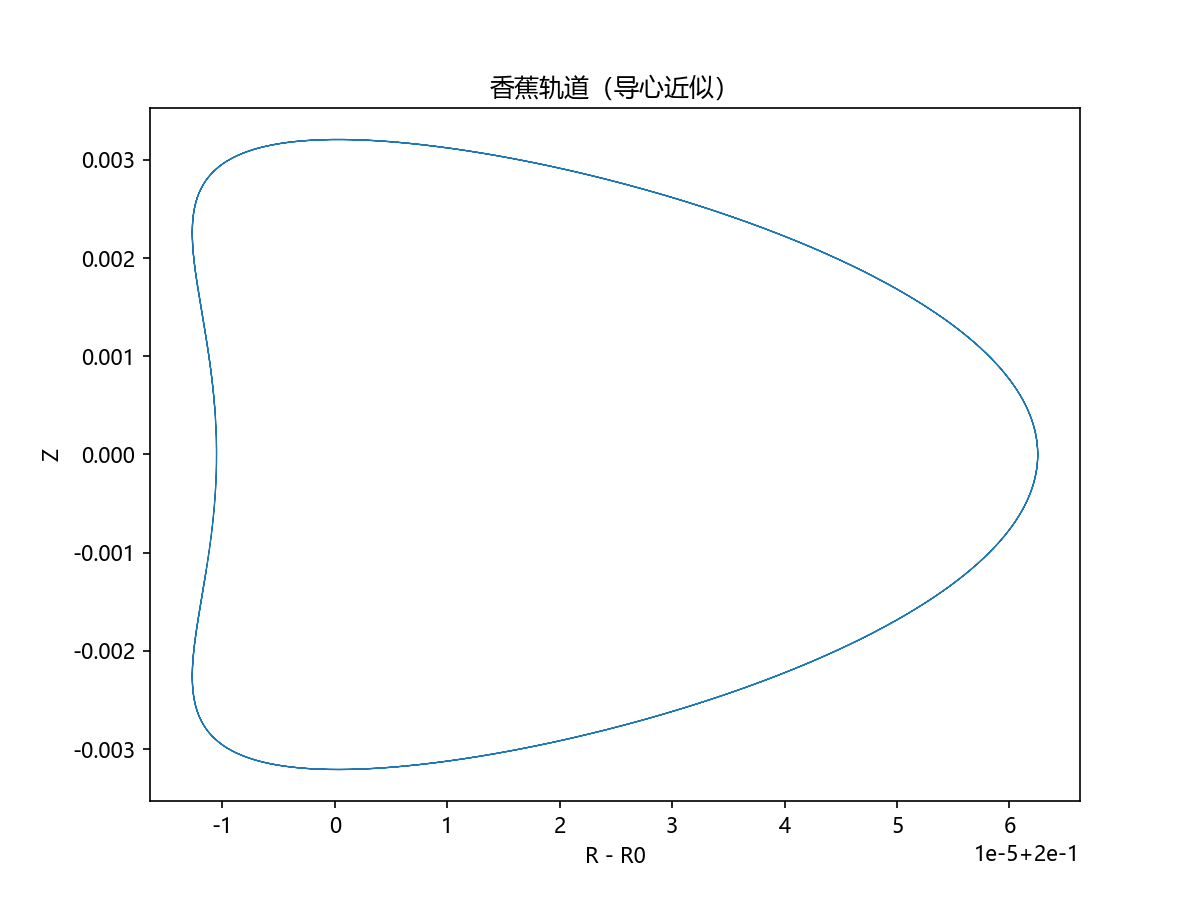
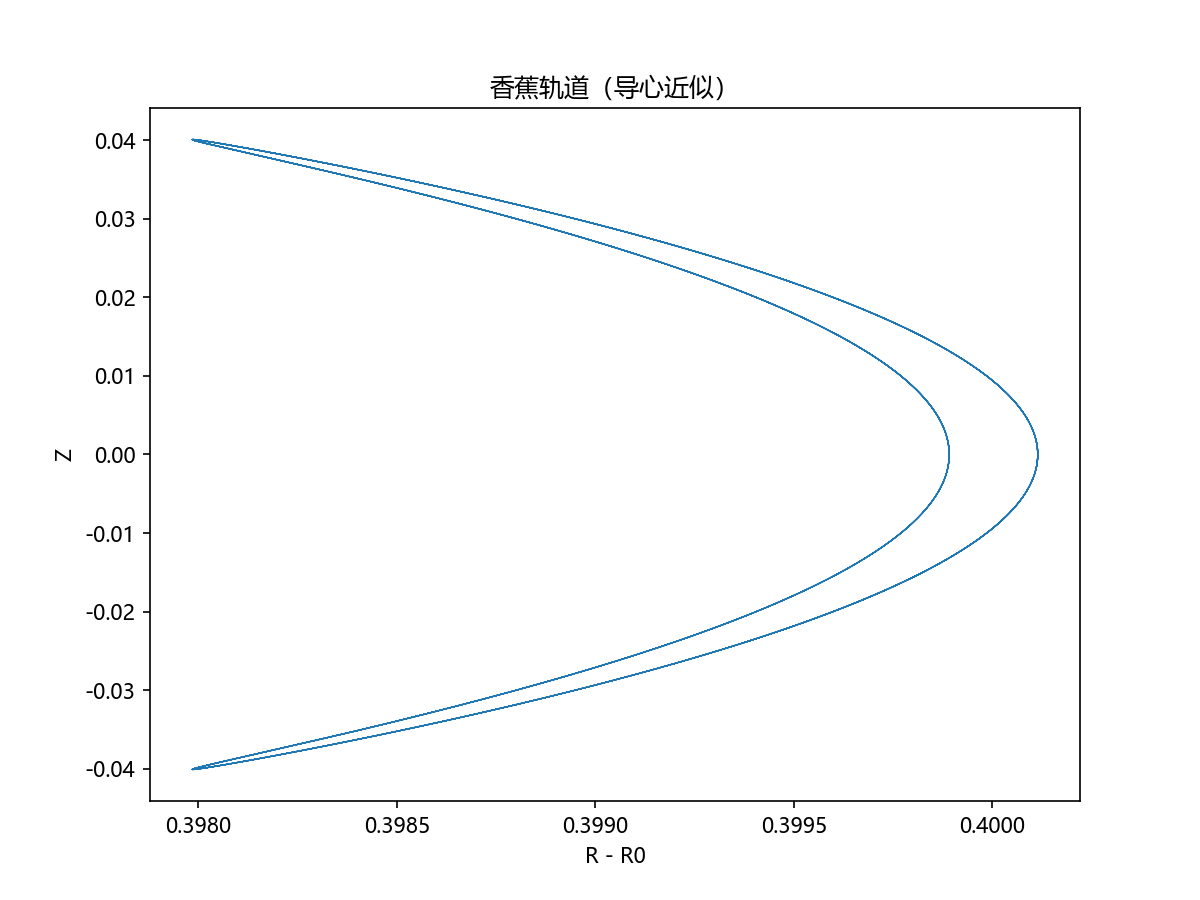
fix: adjust banana orbit initial conditions for a clear closed shape
- Start at R=10.4 (r=0.4) instead of R=10.2 (r=0.2), and use v=[1e5,0,5e4]
  so the banana width is visible on the R-R0/Z projection.
- Use dt=1e-7 and n_steps=300000 to complete a full bounce.
- Update validation script and notebook consistently.

diff --git a/scripts/validation.py b/scripts/validation.py
@@ -104,12 +104,12 @@ def plot_convergence():
 
 def plot_banana_vs_gc():
     field = TokamakField(B0=5.0, R0=10.0, a=1.0, q0=1.0, q1=2.0)
-    # 选取被磁镜效应捕获的粒子：垂直速度大、平行速度小
-    v = np.array([2e5, 0.0, 5e3])
-    p = Particle(PROTON_CHARGE, PROTON_MASS, np.array([10.2, 0.0, 0.0]), v)
+    # 选取被磁镜效应捕获的粒子，初始位置稍远离磁轴使香蕉宽度可见。
+    v = np.array([1e5, 0.0, 5e4])
+    p = Particle(PROTON_CHARGE, PROTON_MASS, np.array([10.4, 0.0, 0.0]), v)
 
     # 导心近似用于展示完整香蕉轨道；Boris 全轨道因 μ 漂移不适合直接跑完整 bounce。
-    result_gc = guiding_center_integrate(field, p, dt=5e-8, n_steps=200000)
+    result_gc = guiding_center_integrate(field, p, dt=1e-7, n_steps=300000)
 
     R_g = np.sqrt(result_gc["trajectory"][:, 0] ** 2 + result_gc["trajectory"][:, 1] ** 2)
     Z_g = result_gc["trajectory"][:, 2]
